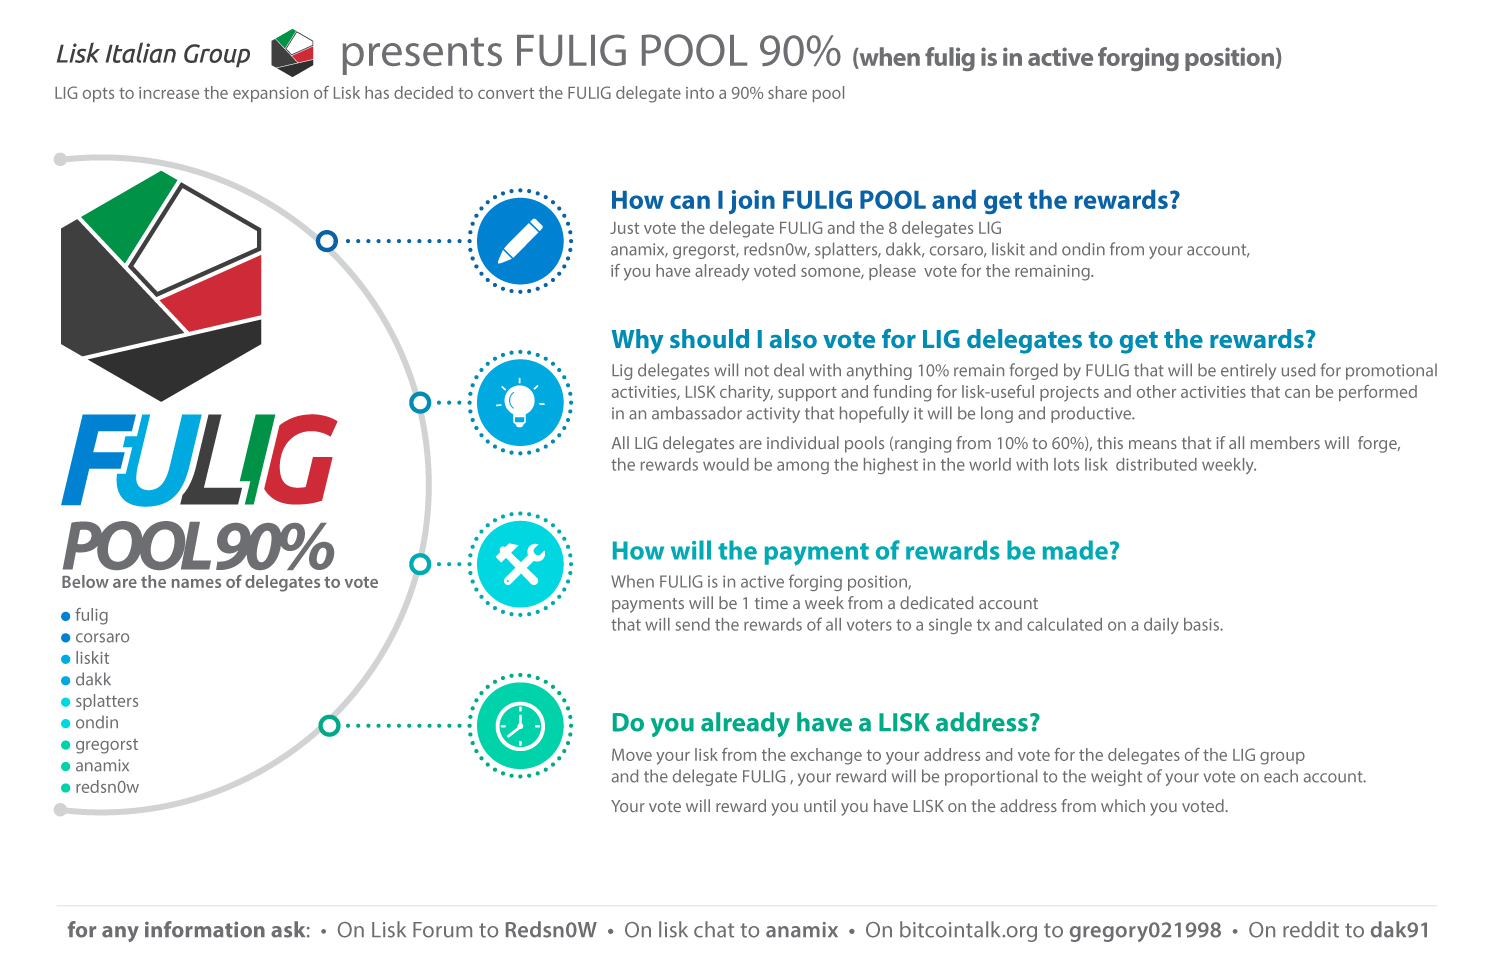
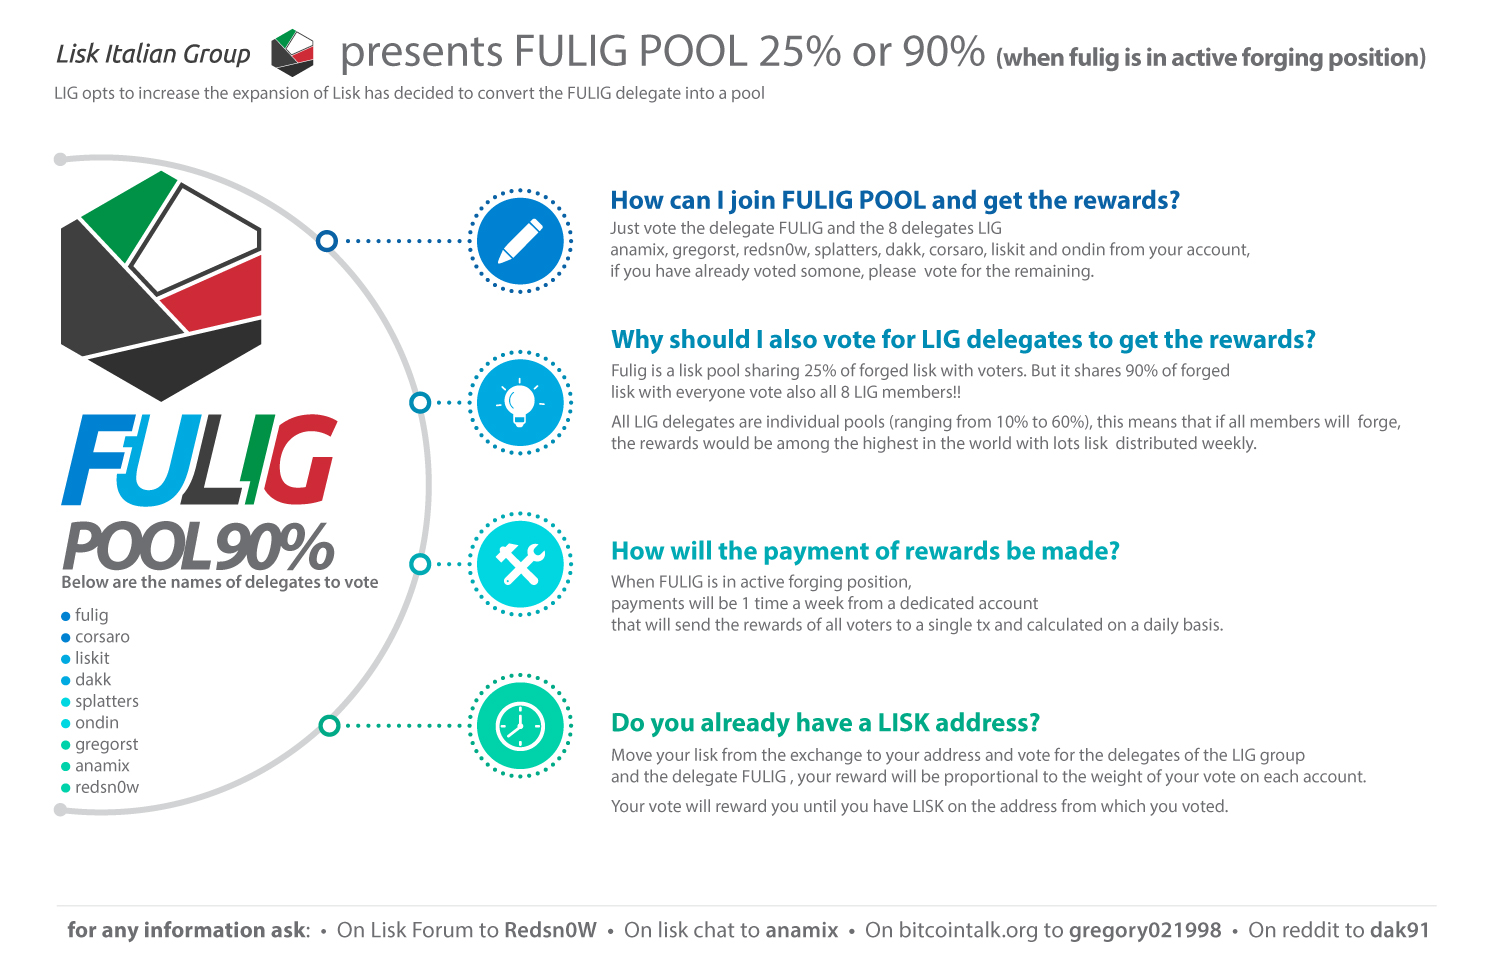
pool update

Changed region(s): [[0.3987, 0.3681, 0.9507, 0.4908], [0.4907, 0.0307, 0.9507, 0.1227]]

diff --git a/docs/views/index.html b/docs/views/index.html
@@ -51,6 +51,8 @@
 			With the multi-signature address <a href="https://explorer.lisk.io/address/13861531827625059307L"><i>{{fulig.address}}</i></a> we’re going to create an <strong>official fund</strong> named <strong>FULIG</strong> to support these projects.
 			Each month LIG members (and all Liskers who want) will be free to donate a percentage of their forged Lisk to the fund.<br>
 			The FULIG will vote all most recent 101 donors.
+			<br>
+			The FULIG is also a 90% <b>pool</b>, check the dedicated page: <a href="/pool">FULIG Pool page</a>.
 		</p>
 
 		<!--<div align="center" style="font-size: 300%">

diff --git a/views/index.html b/views/index.html
@@ -51,6 +51,8 @@
 			With the multi-signature address <a href="https://explorer.lisk.io/address/13861531827625059307L"><i>{{fulig.address}}</i></a> we’re going to create an <strong>official fund</strong> named <strong>FULIG</strong> to support these projects.
 			Each month LIG members (and all Liskers who want) will be free to donate a percentage of their forged Lisk to the fund.<br>
 			The FULIG will vote all most recent 101 donors.
+			<br>
+			The FULIG is also a 90% <b>pool</b>, check the dedicated page: <a href="/pool">FULIG Pool page</a>.
 		</p>
 
 		<!--<div align="center" style="font-size: 300%">
